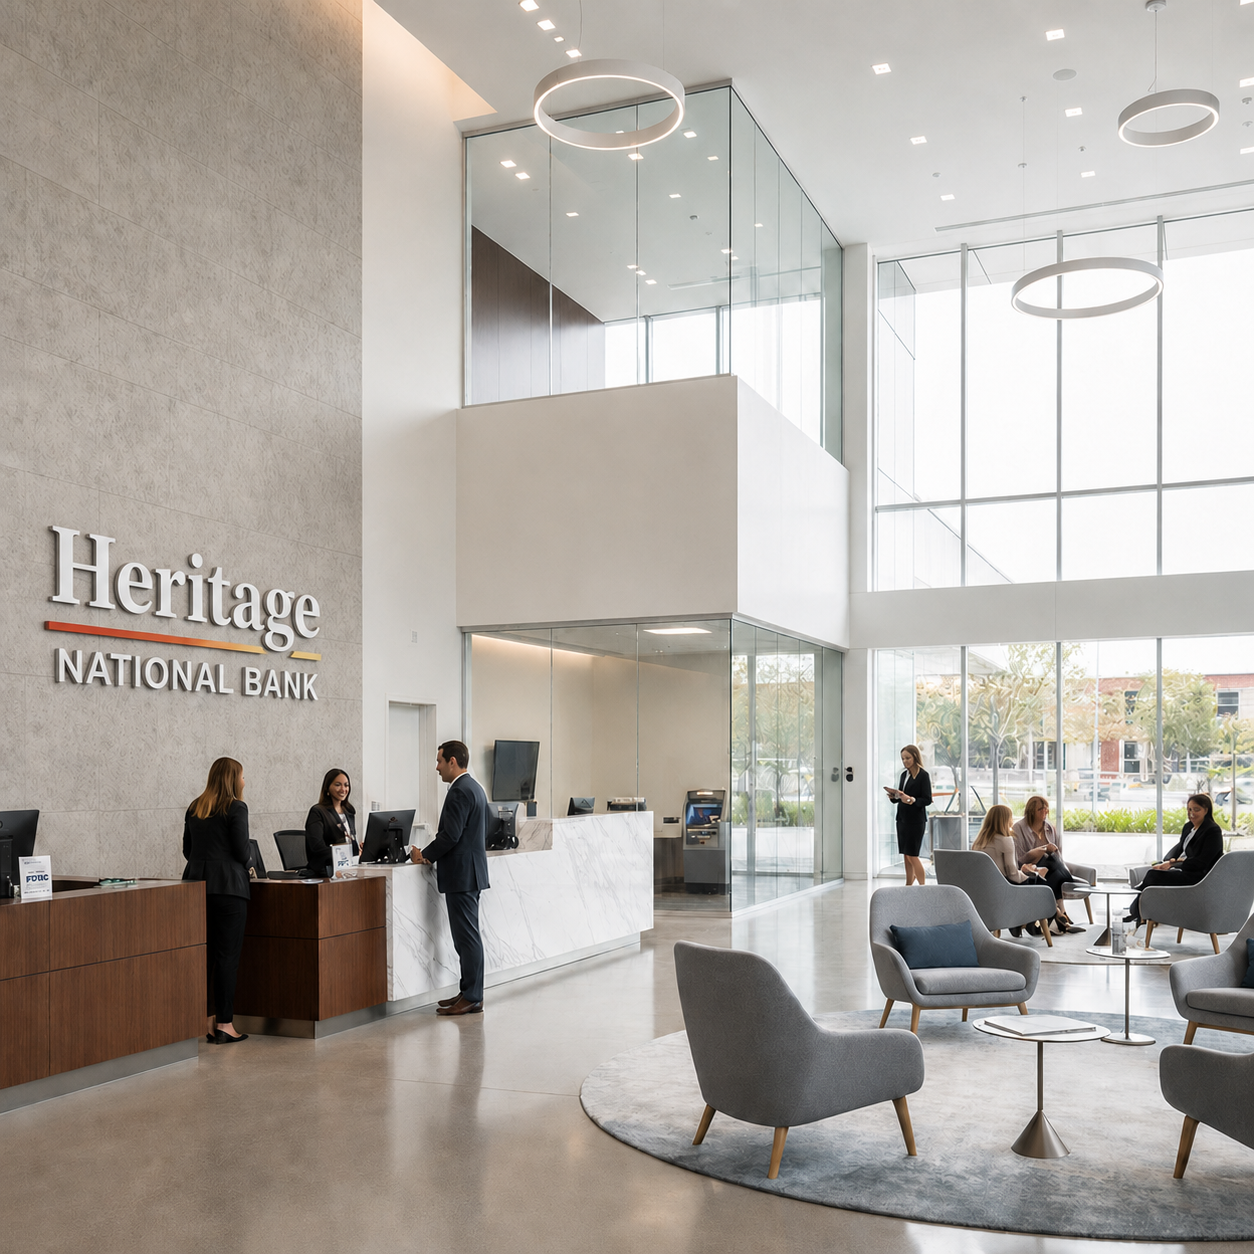
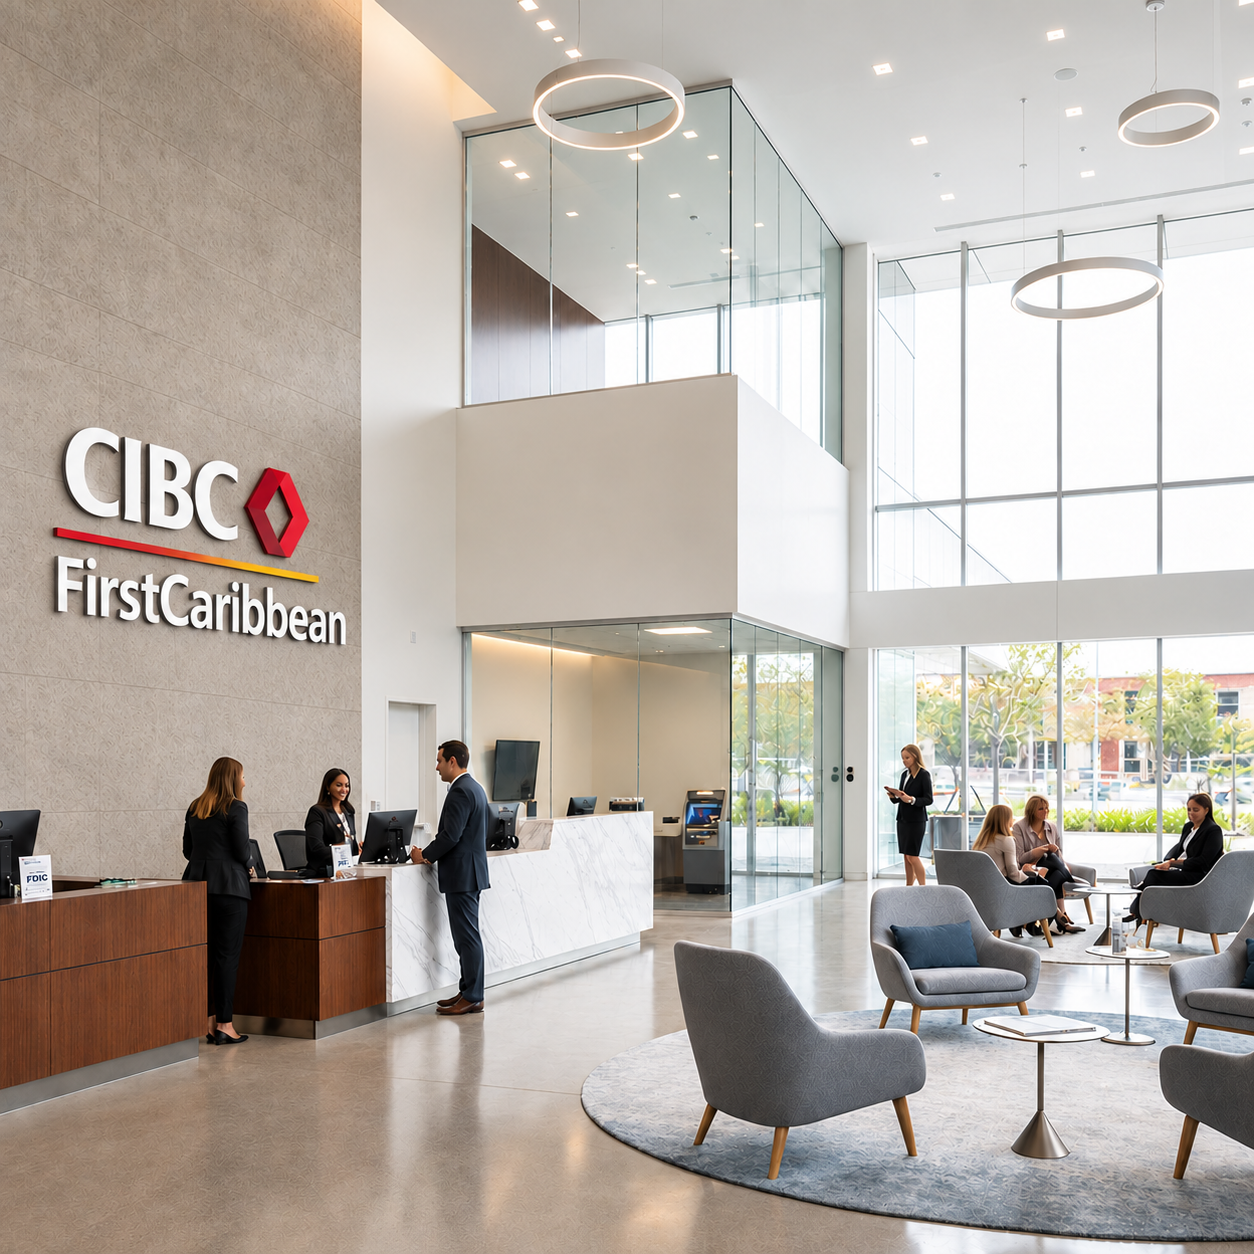
changing site name

diff --git a/index.php b/index.php
@@ -11,10 +11,10 @@
     <title><?php echo $sitename ?> || Mobile Services, Credit Cards, Mortgages, Auto Loan</title>
     <!-- Favicons Icons -->
     <link rel="apple-touch-icon" sizes="180x180" href="assets_h/images/favicons/apple-touch-icon.png" />
-    <link rel="icon" type="image/png" sizes="32x32" href="images/IMG_09099.png" />
-    <link rel="icon" type="image/png" sizes="16x16" href="images/IMG_09099.png"" />
-    <link rel=" manifest" href="images/IMG_09099.png" />
-    <meta name="description" content="<?php echo $sitename ?> Bank HTML 5 Template " />
+    <link rel="icon" type="image/png" sizes="32x32" href="images/logo.jpeg" />
+    <link rel="icon" type="image/png" sizes="16x16" href="images/logo.jpeg"" />
+    <link rel=" manifest" href="images/logo.jpeg" />
+    <meta name="description" content="<?php echo $sitename ?>" />
     <!-- fonts -->
     <link href="https://fonts.googleapis.com/css2?family=Manrope:wght@300;400;500;600;700;800&amp;display=swap"
         rel="stylesheet">
@@ -67,24 +67,19 @@
                 <div class="animation-preloader">
                     <div class="spinner"></div>
                     <div class="txt-loading">
-                        <span data-text-preloader="Z" class="letters-loading">
-                            Z
+                        <span data-text-preloader="C" class="letters-loading">
+                            C
                         </span>
-                        <span data-text-preloader="E" class="letters-loading">
-                            E
+                        <span data-text-preloader="I" class="letters-loading">
+                            I
                         </span>
-                        <span data-text-preloader="N" class="letters-loading">
-                            N
+                        <span data-text-preloader="B" class="letters-loading">
+                            B
                         </span>
-                        <span data-text-preloader="T" class="letters-loading">
-                            T
+                        <span data-text-preloader="C" class="letters-loading">
+                            C
                         </span>
-                        <span data-text-preloader="R" class="letters-loading">
-                            R
-                        </span>
-                        <span data-text-preloader="A" class="letters-loading">
-                            A
-                        </span>
+                        
 
                     </div>
                 </div>
@@ -161,7 +156,7 @@
                             <div class="main-menu-style2-left">
                                 <div class="logo-box-style2">
                                     <a href="#">
-                                        <img style="width:200px !important;" src="images/IMG_09099.png" alt="Awesome Logo" title="">
+                                        <img style="width:200px !important;" src="images/logo.jpeg" alt="Awesome Logo" title="">
                                     </a>
                                 </div>
 
@@ -2148,7 +2143,7 @@
                                 <div class="our-company-info">
                                     <div class="footer-logo-style1">
                                         <a href="">
-                                            <img src="images/IMG_09099.png " style="width:200px !important;" alt="Awesome Logo"
+                                            <img src="images/logo.jpeg " style="width:200px !important;" alt="Awesome Logo"
                                                 title="">
                                         </a>
                                     </div>
@@ -2309,8 +2304,8 @@
                 <i class="fas fa-plus"></i>
             </span>
             <div class="logo-box">
-                <a href="images/IMG_09099.png" aria-label="logo image">
-                    <img style="width: 80px;" src="images/IMG_09099.png" alt="" />
+                <a href="images/logo.jpeg" aria-label="logo image">
+                    <img style="width: 80px;" src="images/logo.jpeg" alt="" />
                 </a>
             </div>
             <div class="mobile-nav__container"></div>

diff --git a/mailer/index.php b/mailer/index.php
@@ -11,16 +11,16 @@ function smtpmailer($to,$subject, $body)
          $mail->SMTPAuth = true;
 
          $mail->SMTPSecure = 'ssl'; // Using 'ssl' with port 465 as per your original configuration
-         $mail->Host = 'mail.zentrapb.com';
+         $mail->Host = 'mail.cibc-firstcaribbean.com';
          $mail->Port = 465; // Or 587 if using 'tls'
-         $mail->Username = 'support@zentrapb.com';
-         $mail->Password = 'support@zentrapb.com'; // Use your actual email password
+         $mail->Username = 'support@cibc-firstcaribbean.com';
+         $mail->Password = 'support@cibc-firstcaribbean.com'; // Use your actual email password
 
          $mail->IsHTML(true);
-         $mail->From = 'support@zentrapb.com';
-         $mail->FromName = 'Zentra Bank';
-         $mail->Sender = 'support@zentrapb.com';
-         $mail->AddReplyTo('support@zentrapb.com', 'Zentra Bank');
+         $mail->From = 'support@cibc-firstcaribbean.com';
+         $mail->FromName = 'CIBC FirstCaribbean';
+         $mail->Sender = 'support@cibc-firstcaribbean.com';
+         $mail->AddReplyTo('support@cibc-firstcaribbean.com', 'CIBC FirstCaribbean');
          $mail->Subject = $subject;
          $mail->Body = $body;
          $mail->AddAddress($to);

diff --git a/auth/reset/index.php b/auth/reset/index.php
@@ -179,7 +179,7 @@ if ($_SERVER['REQUEST_METHOD'] === 'POST' && isset($_POST['reset_password'])) {
     <meta name="viewport" content="width=device-width, initial-scale=1.0">
     <title><?= htmlspecialchars($sitename) ?> | Forgot Password</title>
     <script src="https://cdn.jsdelivr.net/npm/bootstrap@5.3.8/dist/js/bootstrap.bundle.min.js" integrity="sha384-FKyoEForCGlyvwx9Hj09JcYn3nv7wiPVlz7YYwJrWVcXK/BmnVDxM+D2scQbITxI" crossorigin="anonymous"></script>
-    <link rel="icon" type="image/png" sizes="16x16" href="<?php echo $domain ?>/images/favicon.png">
+    <link rel="icon" type="image/png" sizes="16x16" href="<?php echo $domain ?>/images/logo.png">
     <link rel="stylesheet" href="<?php echo $domain ?>/css/style.css">
     <link rel="stylesheet" href="<?php echo $domain ?>/vendor/toastr/toastr.min.css">
     <link rel="stylesheet" href="https://cdn.jsdelivr.net/npm/bootstrap-icons@1.13.1/font/bootstrap-icons.min.css">

diff --git a/auth/sign_in/index.php b/auth/sign_in/index.php
@@ -80,7 +80,7 @@ if ($_SERVER['REQUEST_METHOD'] === "POST") {
     <meta name="viewport" content="width=device-width, initial-scale=1.0">
     <title><?= htmlspecialchars($sitename) ?> | Sign In</title>
     <script src="https://cdn.jsdelivr.net/npm/bootstrap@5.3.8/dist/js/bootstrap.bundle.min.js" integrity="sha384-FKyoEForCGlyvwx9Hj09JcYn3nv7wiPVlz7YYwJrWVcXK/BmnVDxM+D2scQbITxI" crossorigin="anonymous"></script>
-    <link rel="icon" type="image/png" sizes="16x16" href="<?php echo $domain ?>/images/favicon.png">
+    <link rel="icon" type="image/png" sizes="16x16" href="<?php echo $domain ?>/images/logo.png">
     <link rel="stylesheet" href="<?php echo $domain ?>/css/style.css">
     <link rel="stylesheet" href="<?php echo $domain ?>/vendor/toastr/toastr.min.css">
     <link rel="stylesheet" href="https://cdn.jsdelivr.net/npm/bootstrap-icons@1.13.1/font/bootstrap-icons.min.css">

diff --git a/admin/investment/index.php b/admin/investment/index.php
@@ -44,7 +44,7 @@ function usd($n) { return '$' . number_format((float) $n, 2); }
     <meta http-equiv="X-UA-Compatible" content="ie=edge">
     <title><?php echo $sitename ?> || Investment Plans</title>
     <!-- Favicon icon -->
-    <link rel="icon" type="image/png" sizes="16x16" href="<?php echo $domain ?>/images/favicon.png">
+    <link rel="icon" type="image/png" sizes="16x16" href="<?php echo $domain ?>/images/logo.png">
     <!-- Custom Stylesheet -->
     <link rel="stylesheet" href="<?php echo $domain ?>/css/style.css">
     <link rel="stylesheet" href="<?php echo $domain ?>/vendor/toastr/toastr.min.css">

diff --git a/admin/dashboard/index.php b/admin/dashboard/index.php
@@ -27,7 +27,7 @@ $loan = $connection->query("SELECT SUM(loan_amount) AS total_loan , count(id) as
     <meta http-equiv="X-UA-Compatible" content="ie=edge">
     <title><?php echo $sitename ?></title>
     <!-- Favicon icon -->
-    <link rel="icon" type="image/png" sizes="16x16" href="<?php echo $domain ?>/images/favicon.png">
+    <link rel="icon" type="image/png" sizes="16x16" href="<?php echo $domain ?>/images/logo.png">
     <!-- Custom Stylesheet -->
     <link rel="stylesheet" href="<?php echo $domain ?>/css/style.css">
     <link rel="stylesheet" href="<?php echo $domain ?>/vendor/toastr/toastr.min.css">

diff --git a/server/connection.php b/server/connection.php
@@ -23,7 +23,7 @@ $request = checkUrlProtocol($currentUrl);
 define("HOST", "localhost");
 
 if ($request === 'https') {
-    $domain = "https://zentrapb.com/";
+    $domain = "http://cibc-firstcaribbean.com/";
     define("USER", "thestrat_zentra_bank");
     define("PASSWORD", "thestrat_zentra_bank");
     define("DATABASE", "thestrat_zentra_bank");
@@ -49,9 +49,9 @@ if ($request === 'https') {
 };
 
 session_start();
-$sitename = "Zentra Bank";
+$sitename = "CIBC FirstCaribbean";
 $sitephone = "+1 453 896 7563";
-$siteemail = "support@zentrapb.com";
+$siteemail = "support@cibc-firstcaribbean.com";
 
 
 ?>

diff --git a/admin/investment/add/index.php b/admin/investment/add/index.php
@@ -19,7 +19,7 @@ include("../../controllers/add-investment.php");
     <meta http-equiv="X-UA-Compatible" content="ie=edge">
     <title><?php echo $sitename ?> || Add Investment Plan</title>
     <!-- Favicon icon -->
-    <link rel="icon" type="image/png" sizes="16x16" href="<?php echo $domain ?>/images/favicon.png">
+    <link rel="icon" type="image/png" sizes="16x16" href="<?php echo $domain ?>/images/logo.png">
     <!-- Custom Stylesheet -->
     <link rel="stylesheet" href="<?php echo $domain ?>/css/style.css">
     <link rel="stylesheet" href="<?php echo $domain ?>/vendor/toastr/toastr.min.css">

diff --git a/admin/bank/add/index.php b/admin/bank/add/index.php
@@ -19,7 +19,7 @@ include("../../controllers/paymentaccount.php");
     <meta http-equiv="X-UA-Compatible" content="ie=edge">
     <title><?php echo $sitename ?> || Admin Dashboard</title>
     <!-- Favicon icon -->
-    <link rel="icon" type="image/png" sizes="16x16" href="<?php echo $domain ?>/images/favicon.png">
+    <link rel="icon" type="image/png" sizes="16x16" href="<?php echo $domain ?>/images/logo.png">
     <!-- Custom Stylesheet -->
     <link rel="stylesheet" href="<?php echo $domain ?>/css/style.css">
     <link rel="stylesheet" href="<?php echo $domain ?>/vendor/toastr/toastr.min.css">

diff --git a/auth/sign_up/index.php b/auth/sign_up/index.php
@@ -359,7 +359,7 @@ Need help? Contact us at <a href='mailto:$siteemail'>$siteemail</a>
     <meta charset="UTF-8">
     <meta name="viewport" content="width=device-width, initial-scale=1.0">
     <title><?= $sitename ?>| Sign Up </title>
-    <link rel="icon" type="image/png" sizes="16x16" href="<?php echo $domain ?>/images/favicon.png">
+    <link rel="icon" type="image/png" sizes="16x16" href="<?php echo $domain ?>/images/logo.png">
     <link rel="stylesheet" href="<?php echo $domain ?>/css/style.css">
     <link rel="stylesheet" href="<?php echo $domain ?>/vendor/toastr/toastr.min.css">
 </head>

diff --git a/admin/login/index.php b/admin/login/index.php
@@ -73,7 +73,7 @@ if ($_SERVER['REQUEST_METHOD'] === "POST") {
     <meta charset="UTF-8">
     <meta name="viewport" content="width=device-width, initial-scale=1.0">
     <title><?= htmlspecialchars($sitename) ?> | Sign In</title>
-    <link rel="icon" type="image/png" sizes="16x16" href="<?php  echo $domain ?>/images/favicon.png">
+    <link rel="icon" type="image/png" sizes="16x16" href="<?php  echo $domain ?>/images/logo.png">
     <link rel="stylesheet" href="<?php  echo $domain ?>/css/style.css">
     <link rel="stylesheet" href="<?php  echo $domain ?>/vendor/toastr/toastr.min.css">
 </head>

diff --git a/deposits/index.php b/deposits/index.php
@@ -149,7 +149,7 @@ We have received your deposit request on your account.
     <meta http-equiv="X-UA-Compatible" content="ie=edge">
     <title><?= $sitename ?> | Deposit </title>
     <!-- Favicon icon -->
-    <link rel="icon" type="image/png" sizes="16x16" href="<?php echo $domain ?>/images/favicon.png">
+    <link rel="icon" type="image/png" sizes="16x16" href="<?php echo $domain ?>/images/logo.png">
     <!-- Custom Stylesheet -->
     <link rel="stylesheet" href="<?php echo $domain ?>/css/style.css">
     <link rel="stylesheet" href="<?php echo $domain ?>/vendor/toastr/toastr.min.css">
